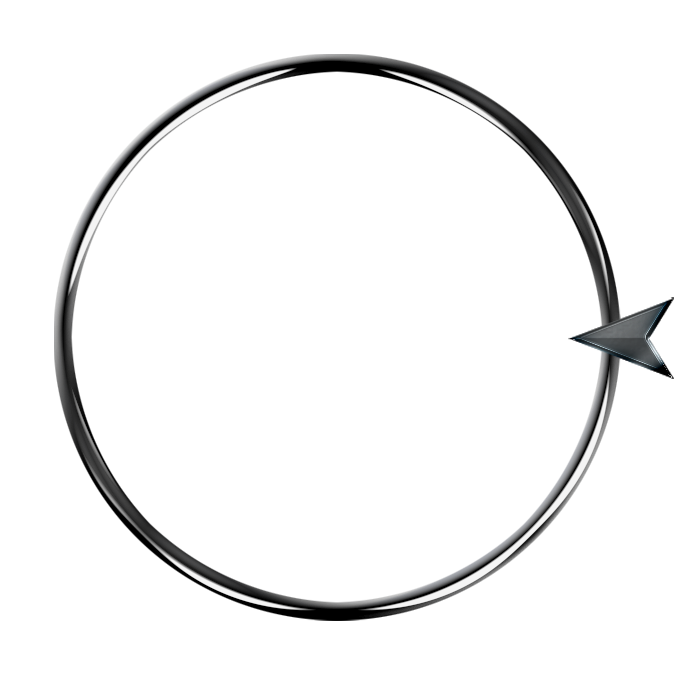
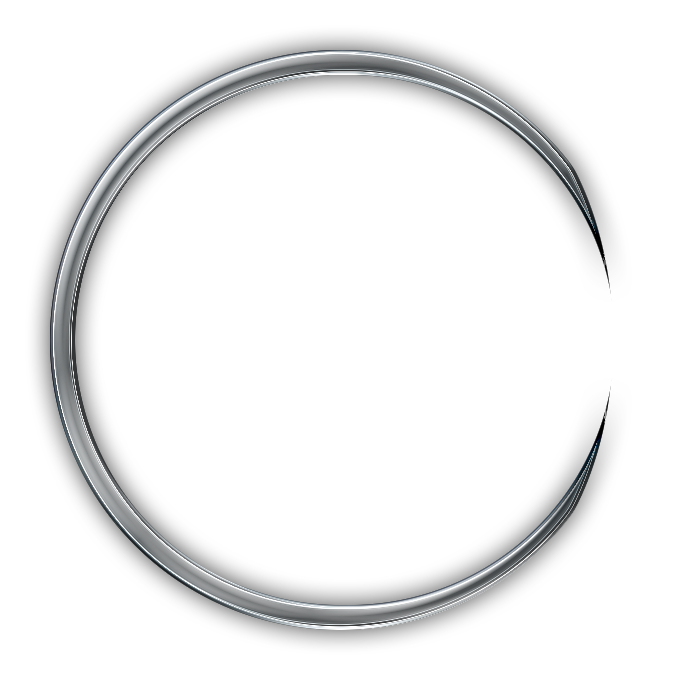
testBG unfinished

Changed region(s): [[0.0311, 0.0311, 1.0, 0.9644]]

diff --git a/src/main/__init__.py b/src/main/__init__.py
@@ -62,7 +62,7 @@ if FULLSCREEN_RES == True:
         screen_error = "Window Error {0}: {1}".format(e.errno, e.strerror)
 else:
     try:
-        options = (DOUBLEBUF | HWSURFACE)
+        options = 0
         std_res = (1000, 700)
         DISPLAYSURFACE = pygame.display.set_mode(std_res, options, 32)
         which_display = "Display 3"
@@ -91,8 +91,10 @@ FPSCLOCK = pygame.time.Clock()
 FONT_LARGE = pygame.font.Font('freesansbold.ttf', 32)
 FONT_SMALL = pygame.font.Font('freesansbold.ttf', 8)
 VERSION = 'v0.2-BETA'
-CENTER_X = (DISPLAYSURFACE.get_width() / 2)
-CENTER_Y = (DISPLAYSURFACE.get_height() / 2)
+DISPLAY_W = DISPLAYSURFACE.get_width()
+CENTER_X = (DISPLAY_W / 2)
+DISPLAY_H = DISPLAYSURFACE.get_height()
+CENTER_Y = (DISPLAY_H / 2)
 CENTER = (CENTER_X, CENTER_Y)
 C_LENGTH = m.sqrt((CENTER_X) ** 2 + (CENTER_Y) ** 2)  # equates screen diagonal.
 DATE = datetime.date.timetuple(datetime.date.today())[0] , \
@@ -199,7 +201,27 @@ def debug(debugBool, info):
 
 def game_screen():
 
-# --Initialize Everything//--
+    '''CREATE IMAGES'''
+    circ_img, __ = load_image('R_small.png')
+    ring_img, ring_rect = load_image('ring.png')
+    ring_rect.center = CENTER
+    box_img, box_rect = load_image('letter_box.png')
+    background, background_rect = load_image('testBG.png')
+    background_rect.center = CENTER
+    print (background_rect.width, background_rect.height)
+    # CUTTING the background to fit the DISPLAYSURFACE
+    # take the center's x value, and move it left to the end of the display's
+    # edge, so from center, minus the half value of width (CENTER_X) is the edge
+    xCut = background_rect.centerx - CENTER_X
+    yCut = background_rect.centery - CENTER_Y
+    background = background.subsurface((xCut, yCut), (DISPLAY_W, DISPLAY_H))
+    background_rect = background.get_rect()
+    background_rect.center = CENTER
+    print (background_rect.width, background_rect.height)
+    print (DISPLAY_W, DISPLAY_H)
+    # CUTTING the same way for the fadeBG.png
+    fadeBG, fadeBG_rect = load_image('fadeBG.png')
+    fadeBG_rect.center = CENTER
     frame = 0
     r = 0
     g = 0
@@ -219,16 +241,6 @@ def game_screen():
     orig_stdout = sys.stdout
     current_circle_quantity = 0
     display_antialiasing = False
-    circ_img, __ = load_image('R_small.png')
-#    circ = Circle((0, 255, 0), circ_img)
-    ring_img, ring_rect = load_image('ring.png')
-    # ring_img, ring_rect = load_image('ring.png', None)
-    box_img, box_rect = load_image('letter_box.png', None)
-    background, background_rect = load_image('starBg.png')
-    fadeBG, fadeBG_rect = load_image('fadeBG.png')
-    ring_rect.center = (CENTER_X, CENTER_Y)
-    fadeBG_rect.center = (CENTER_X, CENTER_Y)
-    background_rect.center = (CENTER_X, CENTER_Y)
     inverted = False
     rotation_speed = 2
 #    circ.size = 100
